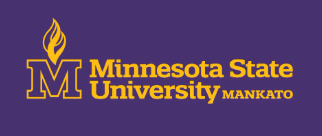
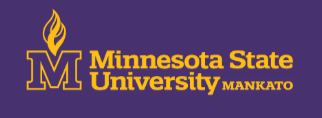
real time closing and toggle visibility, UI tweaks

Changed region(s): [[0.0621, 0.0763, 0.9317, 0.8136]]

diff --git a/src/app/senate/dashboard/pastAgendas/page.tsx b/src/app/senate/dashboard/pastAgendas/page.tsx
@@ -9,6 +9,7 @@ import { useUser } from "@clerk/nextjs";
 import DropDownOptions from '../../../components/dropDown/dropDown'
 import SearchBar from '../../../components/searchBar/SearchBar'; // Import SearchBar
 import { useRouter } from "next/navigation";
+import pusherClient from "@/app/lib/pusher";
 
 interface Option {
     id: number;
@@ -58,6 +59,18 @@ export default function PastAgendas(){
       }
       return 0; // No sorting if 'N/A'
   });
+  useEffect(() => {
+    const channel = pusherClient.subscribe('agenda-channel')
+  
+    const handleClosedAgenda = (data: { message: string }) => {
+      console.log(data.message)
+      fetchAgendas();
+    };
+    channel.bind('closed-agenda', handleClosedAgenda)
+    return () => {
+      channel.unbind('closed-agenda', handleClosedAgenda)
+    }
+  }, [])
     useEffect(() => {
         if (isSignedIn && (user?.publicMetadata?.role === "senate_member" || user?.publicMetadata?.role === "super_admin")) {
             setIsMember(true);
@@ -117,7 +130,7 @@ export default function PastAgendas(){
         <div className={styles.pastAgendas} onClick={() => setCollapsed(true)}>
             <div className={styles.top}>
                 <div className={styles.pageChange}>
-                  <DropDownOptions options={[{id:0, optionText:"Current Agendas"}, {id:1, optionText:"Past Agendas"}]} setSelectedOption={setSelectedPage} text={'Past Agendas'}/>
+                  <DropDownOptions options={[{id:0, optionText:"Past Agendas"}, {id:1, optionText:"Current Agendas"}]} setSelectedOption={setSelectedPage} text={'Past Agendas'}/>
                 </div>
                 <div className={styles.searchAddContainer}>
                   <SearchBar onSearch={handleSearch} />
@@ -136,7 +149,7 @@ export default function PastAgendas(){
                         </div>
                     </div>
               {filteredAndSortedAgendas.map((item, index) =>
-                    item.is_open && 
+                    !item.is_open && 
                     (
                     <AgendaSection key={index} agenda={item} page={'current'} isMember={isMember} isSpeaker={isSpeaker} user={userData}/>
                     )

diff --git a/src/app/senate/dashboard/currentAgendas/page.tsx b/src/app/senate/dashboard/currentAgendas/page.tsx
@@ -62,17 +62,31 @@ export default function CurrentAgendas(){
         return 0; // No sorting if 'N/A'
     });
     useEffect(() => {
-      const channel = pusherClient.subscribe('agenda-channel')
+      const channel = pusherClient.subscribe('agenda-channel');
     
       const handleNewAgenda = (data: { message: string }) => {
-        console.log(data.message)
+        console.log('New agenda:', data.message);
         fetchAgendas();
       };
-      channel.bind('new-agenda', handleNewAgenda)
+    
+      const handleClosedAgenda = (data: { message: string }) => {
+        console.log('Closed agenda:', data.message);
+        fetchAgendas();
+      };
+      const handleChangedVisibility = (data: { message: string }) => {
+        console.log('Changed visibility:', data.message);
+        fetchAgendas();
+      };
+      channel.bind('new-agenda', handleNewAgenda);
+      channel.bind('closed-agenda', handleClosedAgenda);
+      channel.bind('changed-visibility', handleChangedVisibility);
+    
       return () => {
-        channel.unbind('new-agenda', handleNewAgenda)
-      }
-    }, [])
+        channel.unbind('new-agenda', handleNewAgenda);
+        channel.unbind('closed-agenda', handleClosedAgenda);
+        channel.unbind('changed-visibility', handleChangedVisibility);
+      };
+    }, []);
 
 
     useEffect(() => {
@@ -136,7 +150,7 @@ export default function CurrentAgendas(){
               <div className={styles.top}>
                   {/* <h1>Current Agendas</h1> */}
                   <div className={styles.pageChange}>
-                    <DropDownOptions options={[{id:0, optionText:"Past Agendas"}, {id:1, optionText:"Current Agendas"}]} setSelectedOption={setSelectedPage} text={'Current Agendas'}/>
+                    <DropDownOptions options={[{id:0, optionText:"Current Agendas"}, {id:1, optionText:"Past Agendas"}]} setSelectedOption={setSelectedPage} text={'Current Agendas'}/>
                   </div>
                   
                   <div className={styles.searchAddContainer}>

diff --git a/src/app/home.module.css b/src/app/home.module.css
@@ -4,7 +4,7 @@
     flex-direction: column;
 }
 .header{
-    height: 500px;
+    min-height: 500px;
     background-color: #48316F;
     display: flex;
     align-items: center;
@@ -138,7 +138,6 @@
 @media screen and (max-width: 1350px){
     .headerContent{
         width: 1100px;
-
     }
     .left h1{
         font-size: 57px;
@@ -150,7 +149,7 @@
 }
 @media screen and (max-width: 1150px){
     .header{
-        height: 700px
+        padding: 100px 0px;
     }
     .info{
         align-items: center;
@@ -179,9 +178,9 @@
     }
 }
 @media screen and (max-width: 900px){
-    .header{
+    /* .header{
         height: 80vh;
-    }
+    } */
     .info{
         width: 700px;
         justify-self: center;
@@ -209,7 +208,7 @@
 }
 @media screen and (max-width: 750px){
     .header {
-        height: 90vh;
+        height: 85vh;
     }
     .info{
         width:550px;
@@ -240,6 +239,7 @@
     }
     .rightBoxes{
         width: 100%;
+        /* height: auto; */
     }
     .rightBoxes button{
         top: 70%;
@@ -248,10 +248,6 @@
   }
 
 @media screen and (max-width: 660px){
-
-    .why{
-        min-height: 950px;
-    }
     .headerTitle h1{
         font-size: 49px;
     }
@@ -261,13 +257,15 @@
     .left p, .right p{
         font-size: 14px;
     }
+    .right{
+        width: 400px;
+    }
     .right h2{
         font-size: 30px;
     }
 
 }
 @media screen and (max-width: 560px){
-
     .info{
         width: 100%;
     }

diff --git a/src/app/api/handle-close/route.ts b/src/app/api/handle-close/route.ts
@@ -1,5 +1,6 @@
 import { NextResponse } from "next/server";
 import { turso } from '../../../db'
+import pusher from "@/pusher";
 
 export async function POST(req: Request) {
   try {
@@ -10,13 +11,15 @@ export async function POST(req: Request) {
       sql: "UPDATE Agendas SET is_open = ? WHERE id = ?",
       args: [false, agenda_id],
     });
-
+    await pusher.trigger('agenda-channel', 'closed-agenda', {message:"Agenda closed"})
     // Check if the update was successful
     if (result.rowsAffected > 0) {
       return NextResponse.json({ message: "Closed Agenda successfully" });
     } else {
       return NextResponse.json({ error: "Agenda not found" }, { status: 404 });
     }
+
+
   } catch (error) {
     console.error("Error closing agenda:", error);
     return NextResponse.json({ error: "Internal server error" }, { status: 500 });

diff --git a/src/app/api/update-agenda-visibility/route.ts b/src/app/api/update-agenda-visibility/route.ts
@@ -1,5 +1,6 @@
 import { NextResponse } from "next/server";
 import { turso } from '../../../db'
+import pusher from "@/pusher";
 
 export async function POST(req: Request) {
   try {
@@ -18,7 +19,7 @@ export async function POST(req: Request) {
       sql: "UPDATE Agendas SET is_visible = ? WHERE id = ?",
       args: [is_visible, agenda_id],
     });
-
+    await pusher.trigger('agenda-channel', 'changed-visibility', {message:"Changed visibility"})
     // Check if the update was successful
     if (result.rowsAffected > 0) {
       return NextResponse.json({ message: "Visibility updated successfully" });

diff --git a/src/app/components/navBar/navBar.module.css b/src/app/components/navBar/navBar.module.css
@@ -23,7 +23,7 @@
   .img{
     margin-left: 10%;
     height: 100%;
-    width: 192;
+    width: auto;
   }
   .profileSection{
     margin-left: auto;
